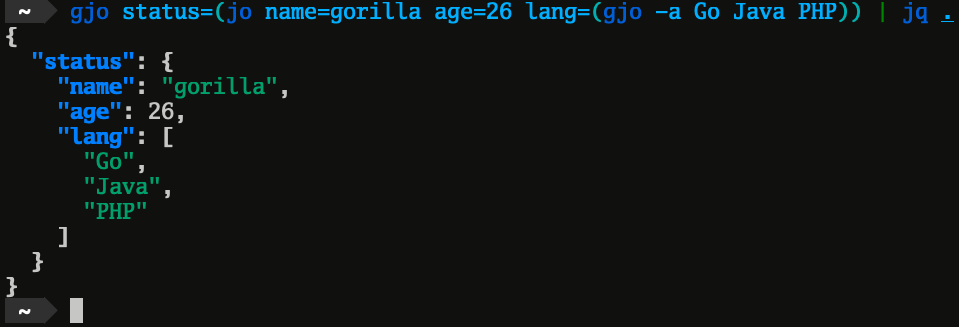
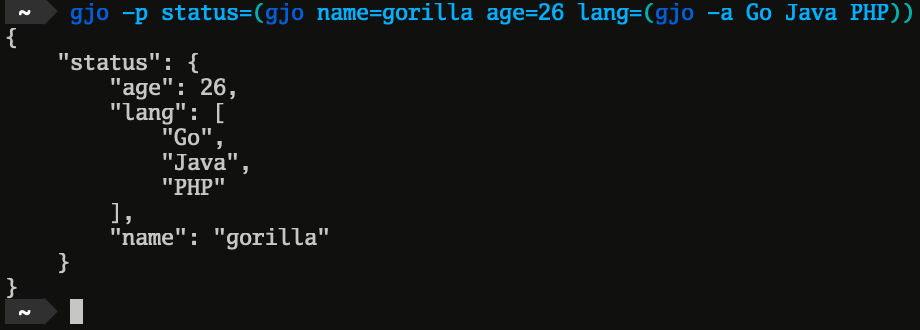
fixed use next array

diff --git a/main.go b/main.go
@@ -25,7 +25,7 @@ var (
 )
 
 func parseValue(s string) interface{} {
-	if strings.Contains(s, "{") && strings.Contains(s, "}") {
+	if (strings.Contains(s, "{") && strings.Contains(s, "}")) || (strings.Contains(s, "[") && strings.Contains(s, "]")) {
 		return json.RawMessage(s)
 	}
 

diff --git a/README.md b/README.md
@@ -17,16 +17,16 @@ $ GO111MODULE=on go install
 
 ## Usage
 ```sh
-$ gjo -p status=$(jo name=gorilla age=26 lang=$(gjo -a Go Java PHP))
+$ gjo -p status=$(gjo name=gorilla age=26 lang=$(gjo -a Go Java PHP))
 {
     "status": {
-        "name": "gorilla",
         "age": 26,
         "lang": [
             "Go",
             "Java",
             "PHP"
-        ]
+        ],
+        "name": "gorilla"
     }
 }
 $ gjo -h
